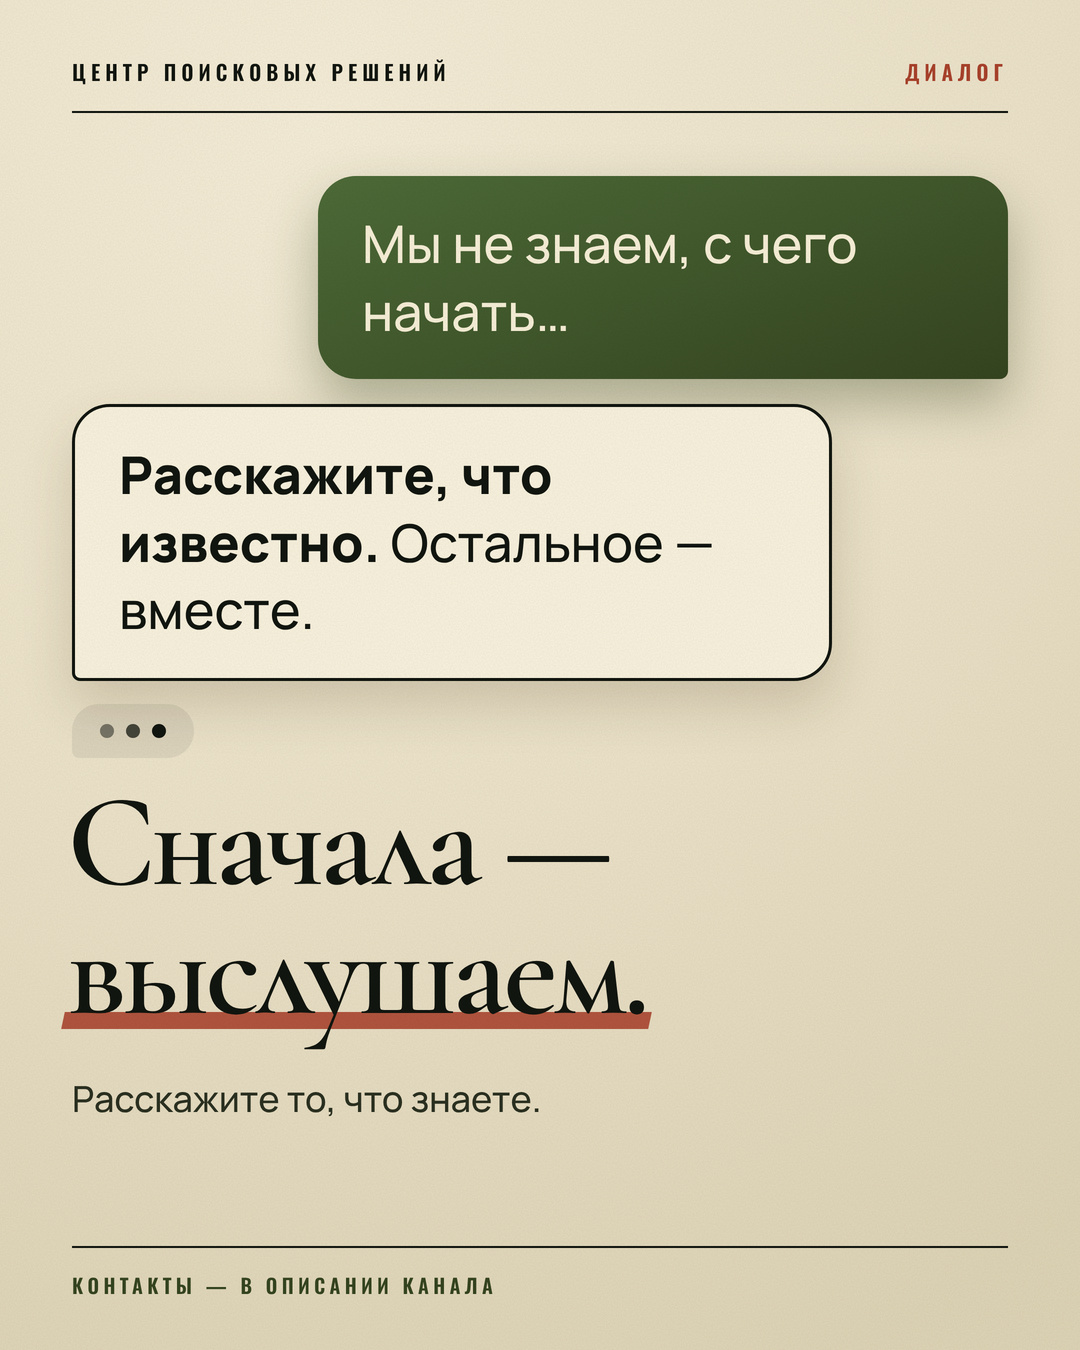
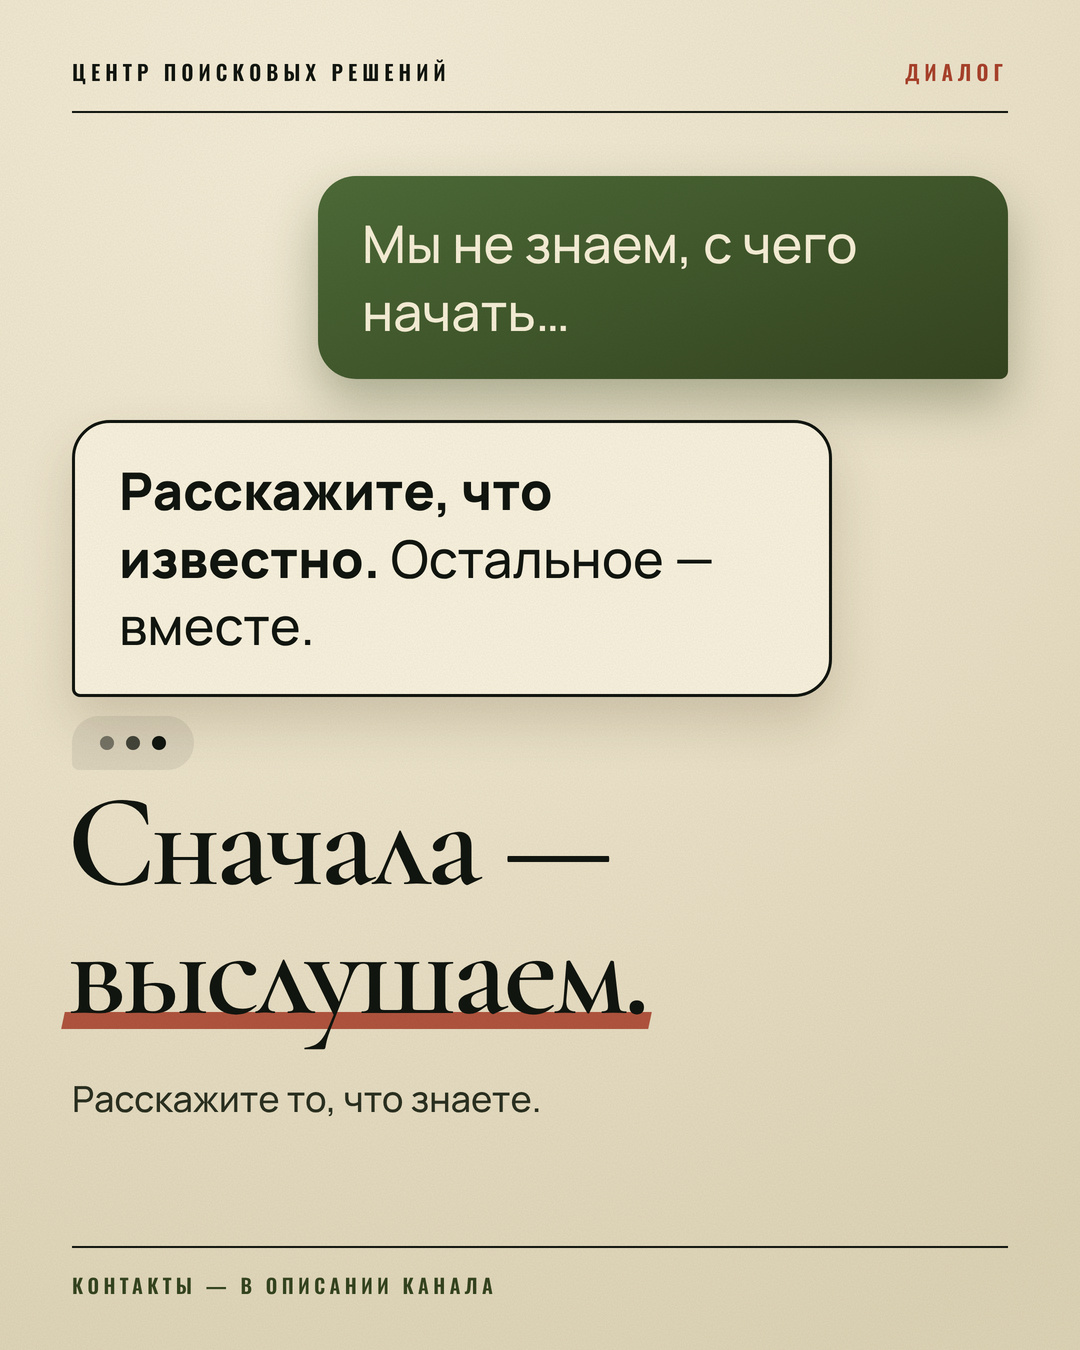
Tidy dialog post spacing
Claude-Session: https://claude.ai/code/session_01NuJDMPrCwZ36H1xaabvcxP

Changed region(s): [[0.0611, 0.3111, 0.7639, 0.56], [0.275, 0.28, 0.7944, 0.3422]]

diff --git a/psr-promo/src/paper_listen.html b/psr-promo/src/paper_listen.html
@@ -17,9 +17,9 @@ h1 u:after{content:"";position:absolute;left:-4px;right:-4px;bottom:8px;height:1
 
 .b{position:absolute;padding:34px 44px;font:500 52px/1.3 Manrope;border-radius:38px}
 .b1{right:72px;top:176px;width:690px;background:linear-gradient(160deg,#4d6b38,#34441f);color:#f6efd8;border-bottom-right-radius:8px;box-shadow:0 24px 50px rgba(52,68,31,.35)}
-.b2{left:72px;top:404px;width:760px;background:var(--card);border:3px solid var(--ink);border-bottom-left-radius:8px;box-shadow:0 24px 50px rgba(70,56,20,.18)}
+.b2{left:72px;top:420px;width:760px;background:var(--card);border:3px solid var(--ink);border-bottom-left-radius:8px;box-shadow:0 24px 50px rgba(70,56,20,.18)}
 .b2 b{font-weight:800}
-.dots{position:absolute;left:72px;top:704px;display:flex;gap:12px;padding:20px 28px;border-radius:30px;border-bottom-left-radius:8px;background:rgba(17,21,15,.07)}
+.dots{position:absolute;left:72px;top:716px;display:flex;gap:12px;padding:20px 28px;border-radius:30px;border-bottom-left-radius:8px;background:rgba(17,21,15,.07)}
 .dots i{width:14px;height:14px;border-radius:50%;background:var(--ink);opacity:.5}.dots i:nth-child(2){opacity:.75}.dots i:nth-child(3){opacity:1}
 </style></head><body><div class="post" id="post">
 <div class="top"><span>ЦЕНТР ПОИСКОВЫХ РЕШЕНИЙ</span><span>ДИАЛОГ</span></div>

diff --git a/psr-promo/tools/make_papers.py b/psr-promo/tools/make_papers.py
@@ -102,9 +102,9 @@ document.getElementById('w').innerHTML=h;</script>''',
 page("listen","ДИАЛОГ","""
 .b{position:absolute;padding:34px 44px;font:500 52px/1.3 Manrope;border-radius:38px}
 .b1{right:72px;top:176px;width:690px;background:linear-gradient(160deg,#4d6b38,#34441f);color:#f6efd8;border-bottom-right-radius:8px;box-shadow:0 24px 50px rgba(52,68,31,.35)}
-.b2{left:72px;top:404px;width:760px;background:var(--card);border:3px solid var(--ink);border-bottom-left-radius:8px;box-shadow:0 24px 50px rgba(70,56,20,.18)}
+.b2{left:72px;top:420px;width:760px;background:var(--card);border:3px solid var(--ink);border-bottom-left-radius:8px;box-shadow:0 24px 50px rgba(70,56,20,.18)}
 .b2 b{font-weight:800}
-.dots{position:absolute;left:72px;top:704px;display:flex;gap:12px;padding:20px 28px;border-radius:30px;border-bottom-left-radius:8px;background:rgba(17,21,15,.07)}
+.dots{position:absolute;left:72px;top:716px;display:flex;gap:12px;padding:20px 28px;border-radius:30px;border-bottom-left-radius:8px;background:rgba(17,21,15,.07)}
 .dots i{width:14px;height:14px;border-radius:50%;background:var(--ink);opacity:.5}.dots i:nth-child(2){opacity:.75}.dots i:nth-child(3){opacity:1}
 """,
 '<div class="b b1">Мы не знаем, с чего начать…</div><div class="b b2"><b>Расскажите, что известно.</b> Остальное — вместе.</div><div class="dots"><i></i><i></i><i></i></div>',
